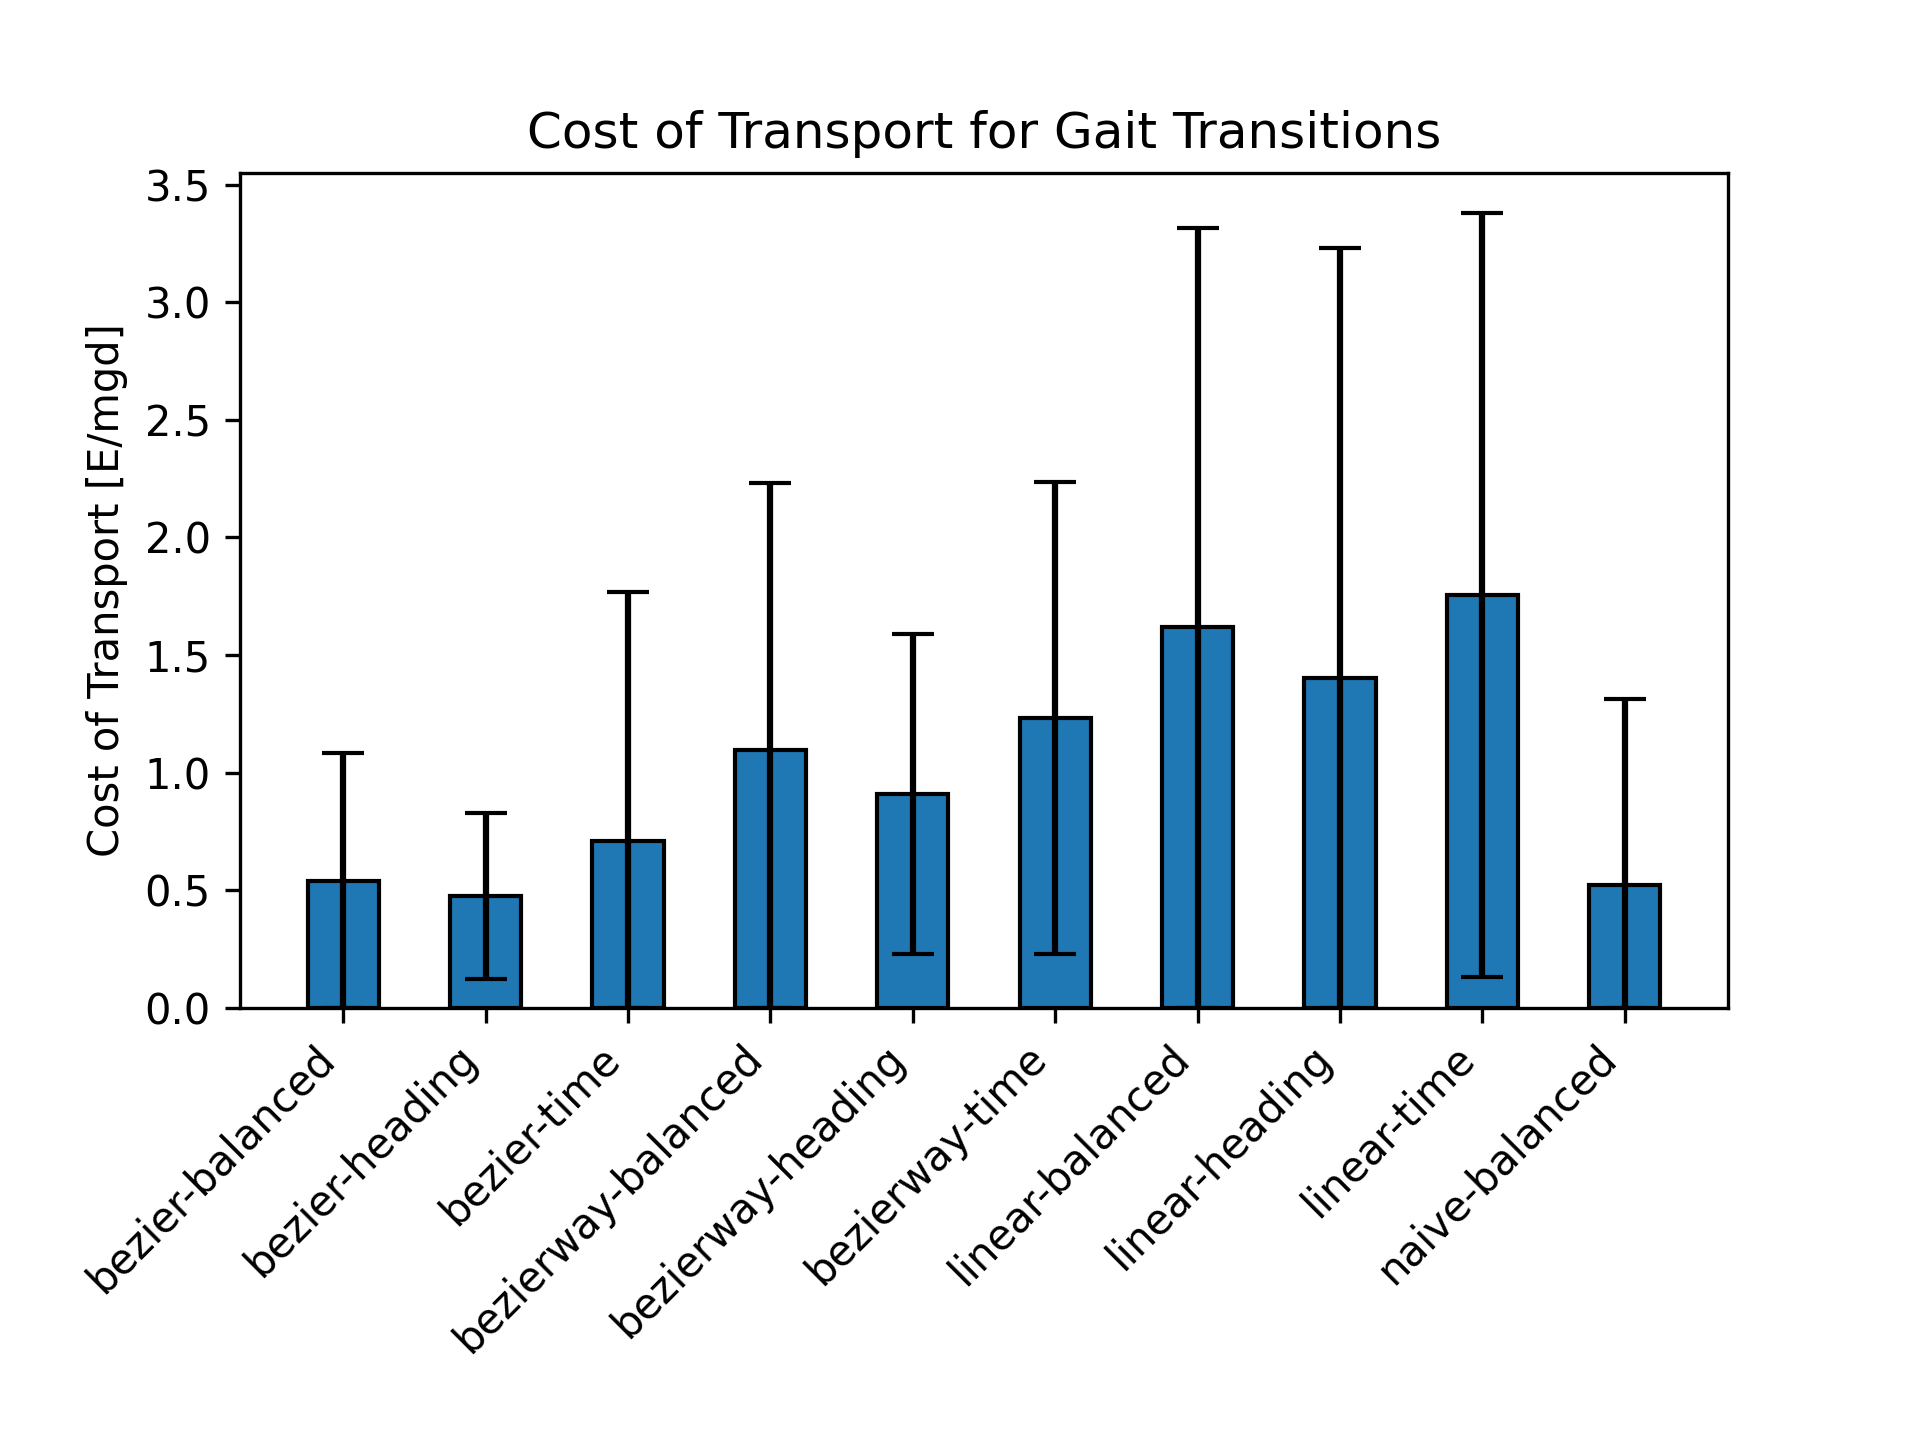
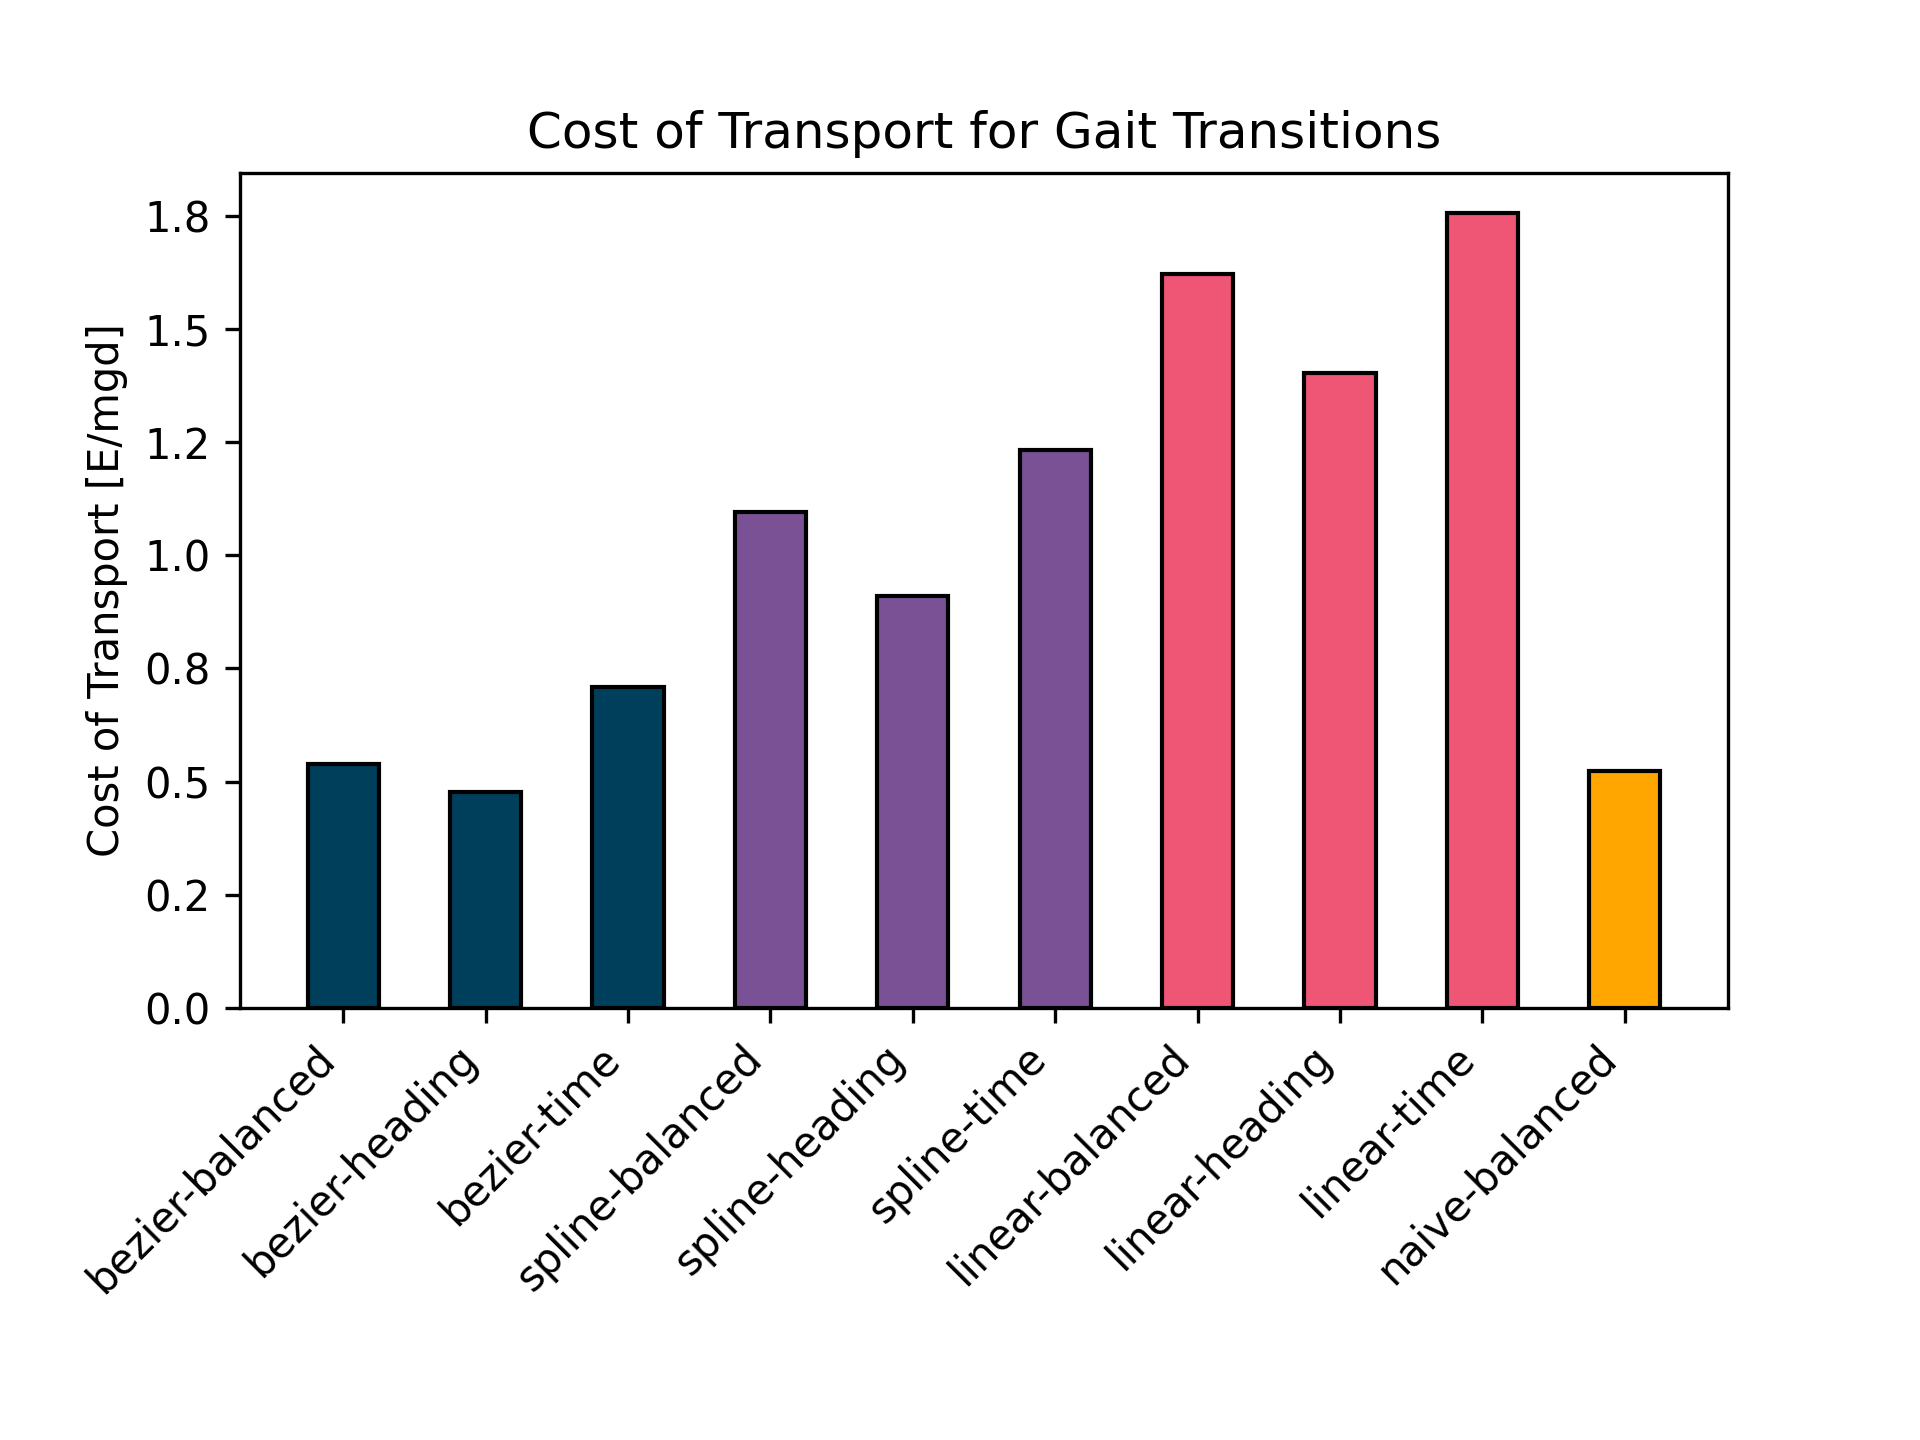
Add plot colors, fix labels, remove yerrs

diff --git a/analysis/paper_plots.py b/analysis/paper_plots.py
@@ -22,6 +22,38 @@ transition_names = [
     "naive-balanced",
 ]
 
+label_names = [
+    "bezier-balanced",
+    "bezier-heading",
+    "bezier-time",
+    "spline-balanced",
+    "spline-heading",
+    "spline-time",
+    "linear-balanced",
+    "linear-heading",
+    "linear-time",
+    "naive-balanced",
+]
+
+bezier_color = "#003f5c"
+spline_color = "#7a5195"
+linear_color = "#ef5675"
+naive_color = "#ffa600"
+
+
+bar_colors = [
+    bezier_color,
+    bezier_color,
+    bezier_color,
+    spline_color,
+    spline_color,
+    spline_color,
+    linear_color,
+    linear_color,
+    linear_color,
+    naive_color,
+]
+
 
 def plot_duration(transition_data: dict[str, pd.DataFrame]) -> Figure:
     fig, ax = plt.subplots()
@@ -41,12 +73,13 @@ def plot_duration(transition_data: dict[str, pd.DataFrame]) -> Figure:
     stds = [np.minimum(stds, means), stds]
 
     ax.bar(
-        x=transition_names,
+        x=label_names,
         height=means,
-        yerr=stds,
+        # yerr=stds,
         capsize=5,
         edgecolor="black",
         width=0.5,
+        color=bar_colors,
     )
 
     return fig
@@ -70,12 +103,13 @@ def plot_heading(transition_data: dict[str, pd.DataFrame]) -> Figure:
     stds = [np.minimum(stds, means), stds]
 
     ax.bar(
-        x=transition_names,
+        x=label_names,
         height=np.degrees(means),
-        yerr=np.degrees(stds),
+        # yerr=np.degrees(stds),
         capsize=5,
         edgecolor="black",
         width=0.5,
+        color=bar_colors,
     )
 
     return fig
@@ -99,12 +133,13 @@ def plot_cot(transition_data: dict[str, pd.DataFrame]) -> Figure:
     stds = [np.minimum(stds, means), stds]
 
     ax.bar(
-        x=transition_names,
+        x=label_names,
         height=means,
-        yerr=stds,
+        # yerr=stds,
         capsize=5,
         edgecolor="black",
         width=0.5,
+        color=bar_colors,
     )
 
     return fig
